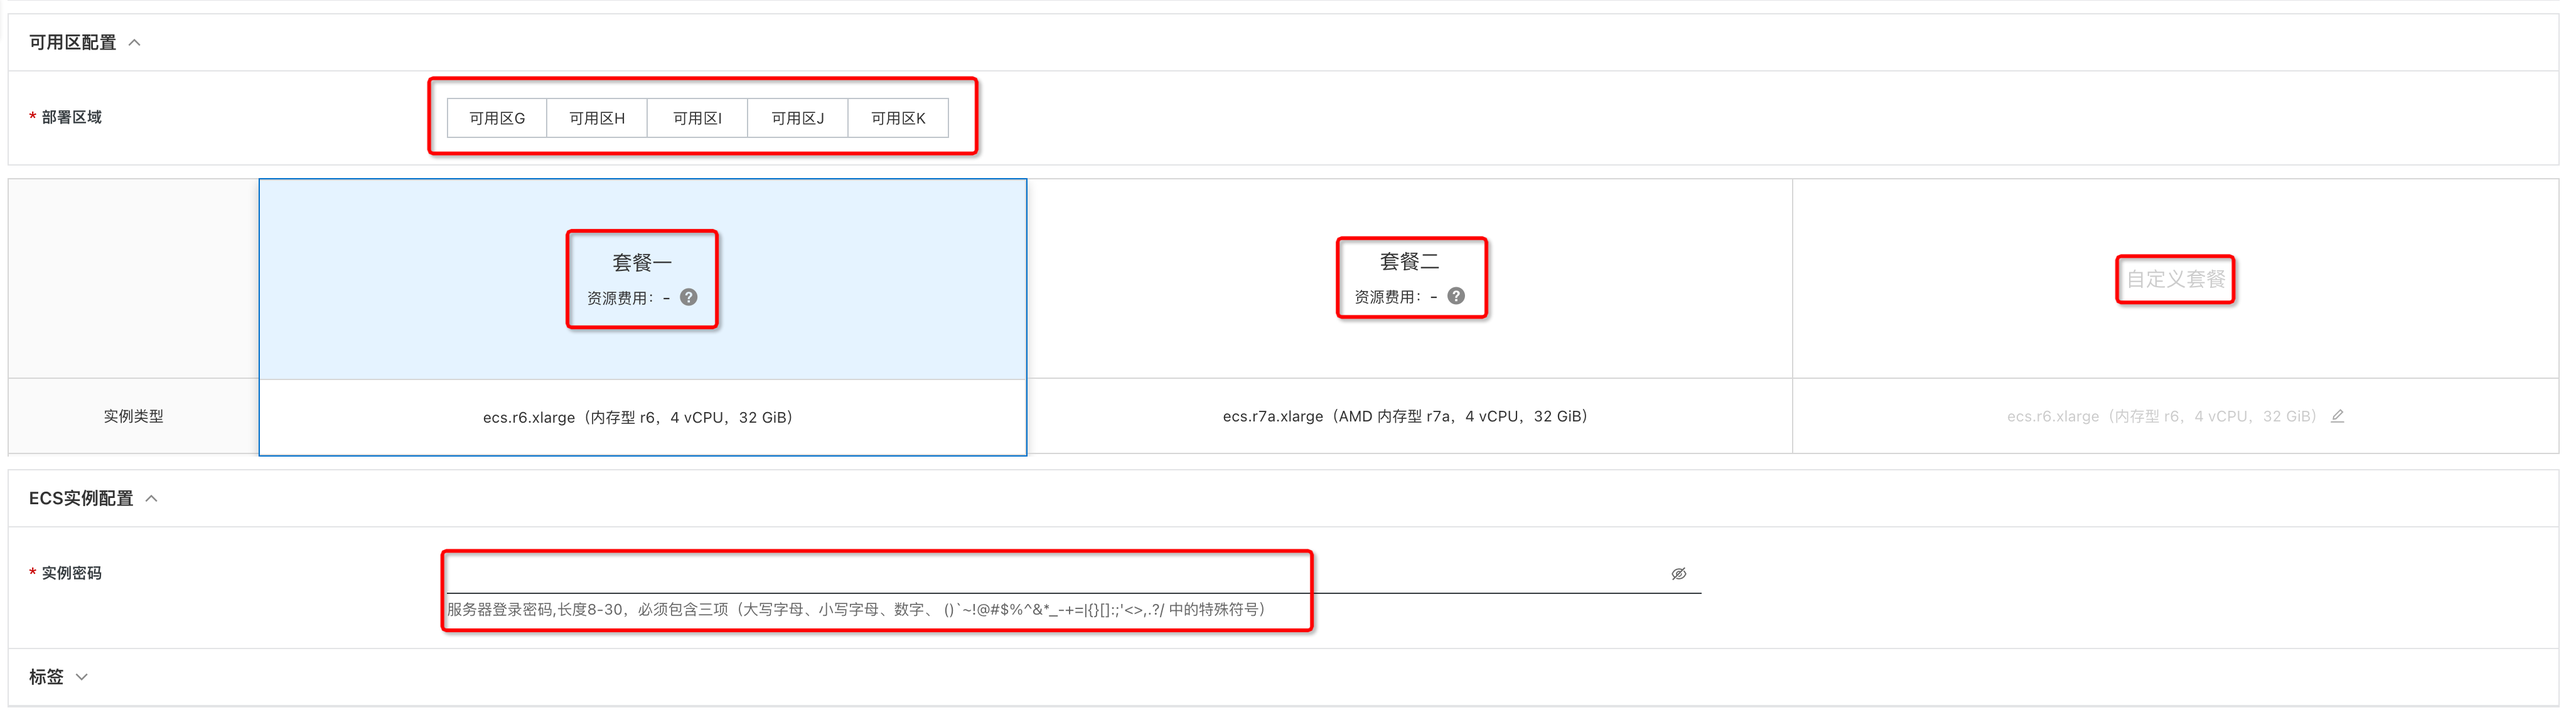
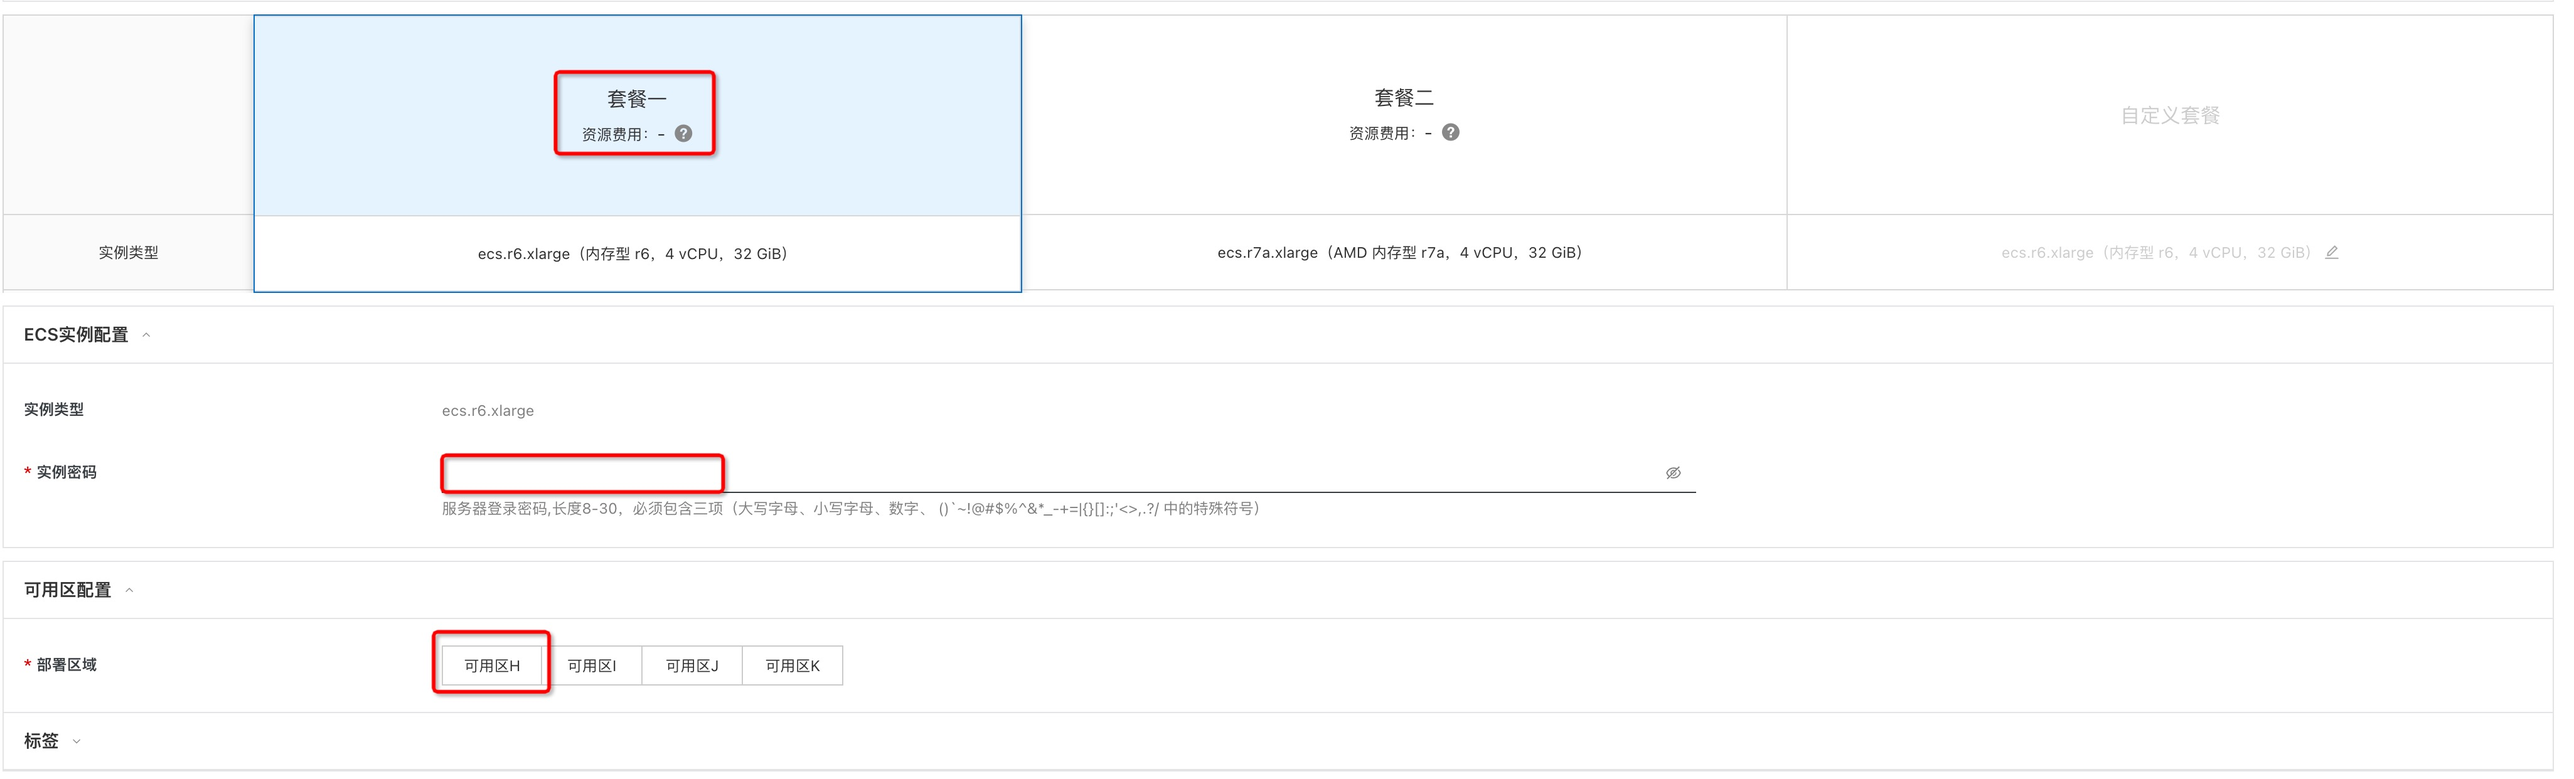
revise doc

diff --git a/docs/index.md b/docs/index.md
@@ -9,10 +9,10 @@ TuGraph（tugraph.antgroup.com）是蚂蚁集团的高性能图数据库（Graph
 
 TuGraph部署的为社区开源版本，源码参考[Github Repo](https://github.com/TuGraph-family/tugraph-db)，目前可以选择的实例规格如下：
 
-| 规格族 | vCPU与内存 | 系统盘 | 公网带宽 |
-| --- | --- | --- | --- |
+| 规格族         | vCPU与内存                 | 系统盘              | 公网带宽      |
+|----------------|-------------------------|-------------------|-----------|
 | ecs.r7a.xlarge | AMD 内存型 r7a，4vCPU 32GiB | ESSD云盘 200GiB PL0 | 固定带宽1Mbps |
-| ecs.r6.xlarge  | 内存型r6，4vCPU 32GiB | ESSD云盘 200GiB PL0 | 固定带宽1Mbps |
+| ecs.r6.xlarge  | 内存型r6，4vCPU 32GiB       | ESSD云盘 200GiB PL0 | 固定带宽1Mbps |
 
 预估费用在创建实例时可实时看到（目前为免费）。
 如需更多规格、其他服务（如集群高可用性要求、企业级支持服务等），请联系我们 [tugraph@service.alipay.com](mailto:tugraph@service.alipay.com)。
@@ -29,13 +29,13 @@ TuGraph部署的为社区开源版本，源码参考[Github Repo](https://github
       权](https://help.aliyun.com/document_detail/121945.html)。所需权限如下表所示。
     - 且需要授权创建关联角色，参考下图，选中 **同意授权并创建关联角色**
 
-| 权限策略名称 | 备注 |
-| --- | --- |
-| AliyunECSFullAccess | 管理云服务器服务（ECS）的权限 |
-| AliyunVPCFullAccess | 管理专有网络（VPC）的权限 |
-| AliyunROSFullAccess | 管理资源编排服务（ROS）的权限 |
+| 权限策略名称                    | 备注                                    |
+|---------------------------------|---------------------------------------|
+| AliyunECSFullAccess             | 管理云服务器服务（ECS）的权限             |
+| AliyunVPCFullAccess             | 管理专有网络（VPC）的权限                 |
+| AliyunROSFullAccess             | 管理资源编排服务（ROS）的权限             |
 | AliyunComputeNestUserFullAccess | 管理计算巢服务（ComputeNest）的用户侧权限 |
-| AliyunCloudMonitorFullAccess | 管理云监控（CloudMonitor）的权限 |
+| AliyunCloudMonitorFullAccess    | 管理云监控（CloudMonitor）的权限          |
 
 ![1-1.png](1-1.png)
 
@@ -57,15 +57,15 @@ TuGraph部署的为社区开源版本，源码参考[Github Repo](https://github
 
 您在创建服务实例的过程中，需要配置服务实例信息的参数列表，具体如下。
 
-| 参数组 | 参数项 | 示例 | 说明 |
-| --- | --- | --- | --- |
-| 服务实例名称 | N/A | test | 实例的名称 |
-| 地域 | N/A | 华东1（杭州） | 选中服务实例的地域，建议就近选中，以获取更好的网络延时。 |
-| 付费类型配置 | 付费类型 | 按量付费 | 免费使用请选用按量付费 |
-| 可用区配置 | 部署区域 | 可用区I | 地域下的不同可用区域，确保实例非空 |
-| 选择已有基础资源配置 | VPC ID | vpc-xxx | 按实际情况，选择专有网络的ID。 |
-| 选择已有基础资源配置 | 交换机ID | vsw-xxx | 按实际情况，选择交换机ID。若找不到交换机, 可尝试切换地域和可用区 |
-| ECS实例配置 | 实例类型 | ecs.r6.xlarge | 当前支持ecs.r6.xlarge和ecs.r7a.xlarge规格 |
+| 参数组               | 参数项   | 示例          | 说明                                                           |
+|--------------------|----------|---------------|--------------------------------------------------------------|
+| 服务实例名称         | N/A      | test          | 实例的名称                                                     |
+| 地域                 | N/A      | 华东1（杭州）   | 选中服务实例的地域，建议就近选中，以获取更好的网络延时。          |
+| 付费类型配置         | 付费类型 | 按量付费      | 免费使用请选用按量付费                                         |
+| 可用区配置           | 部署区域 | 可用区I       | 地域下的不同可用区域，确保实例非空                              |
+| 选择已有基础资源配置 | VPC ID   | vpc-xxx       | 按实际情况，选择专有网络的ID。                                   |
+| 选择已有基础资源配置 | 交换机ID | vsw-xxx       | 按实际情况，选择交换机ID。若找不到交换机, 可尝试切换地域和可用区 |
+| ECS实例配置          | 实例类型 | ecs.r6.xlarge | 当前支持ecs.r6.xlarge和ecs.r7a.xlarge规格                      |
 | ECS实例配置 | 实例密码 | ******** | 设置实例密码。长度8~30个字符，必须包含三项（大写字母、小写字母、数字、 ()`~!@#$%^&*_-+={}[]:;'<>,.?/ 中的特殊符号）。 |
 
 #### 3.2 具体步骤
@@ -77,11 +77,11 @@ TuGraph部署的为社区开源版本，源码参考[Github Repo](https://github
 
 ![2-1.png](2-1.png)
 
-- 选择部署区域，如下图中“可用区I”
 - 选择实例类型，当前支持2个套餐的免费试用（自定义套餐不支持试用）
     - 套餐一：ecs.r6.xlarge
     - 套餐二：ecs.r7a.xlarge
 - 配置实例的密码
+- 选择部署区域，如下图中“可用区I”
 
 ![2-2.png](2-2.png)
 
